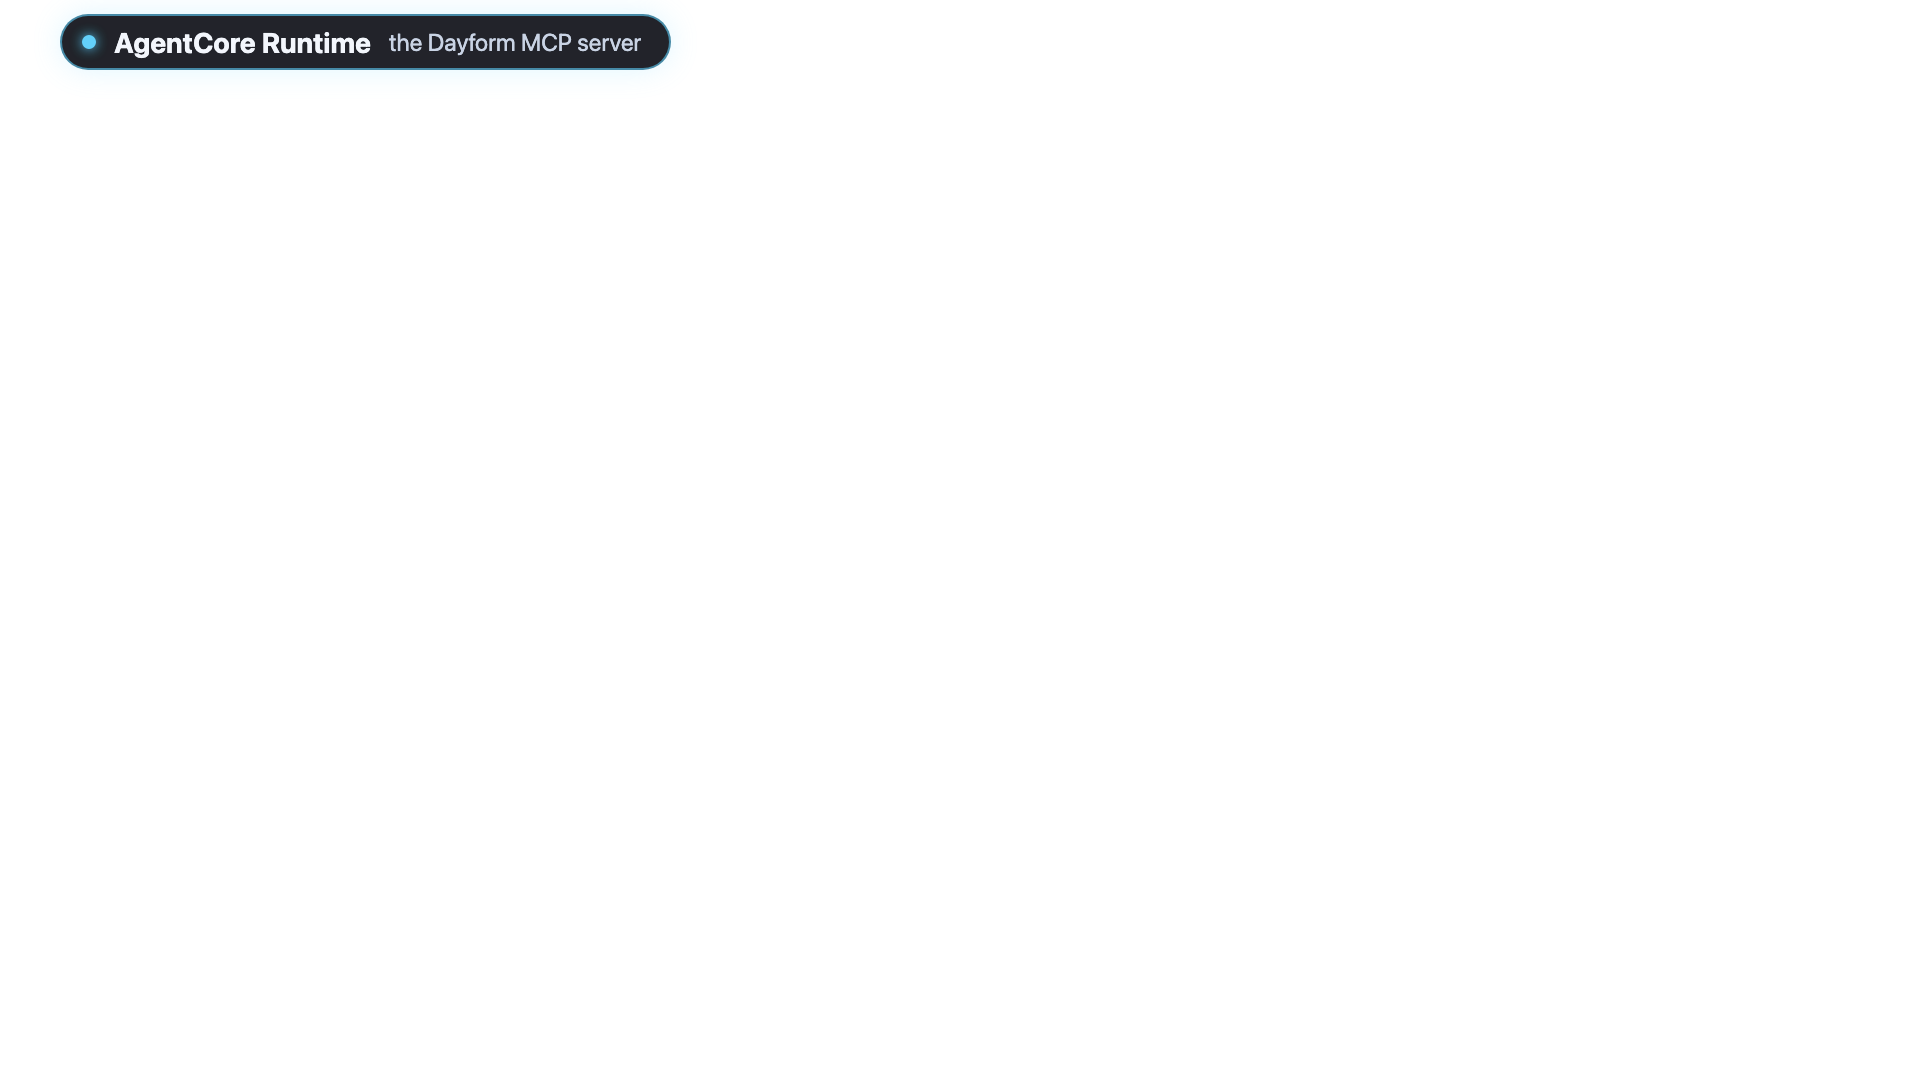
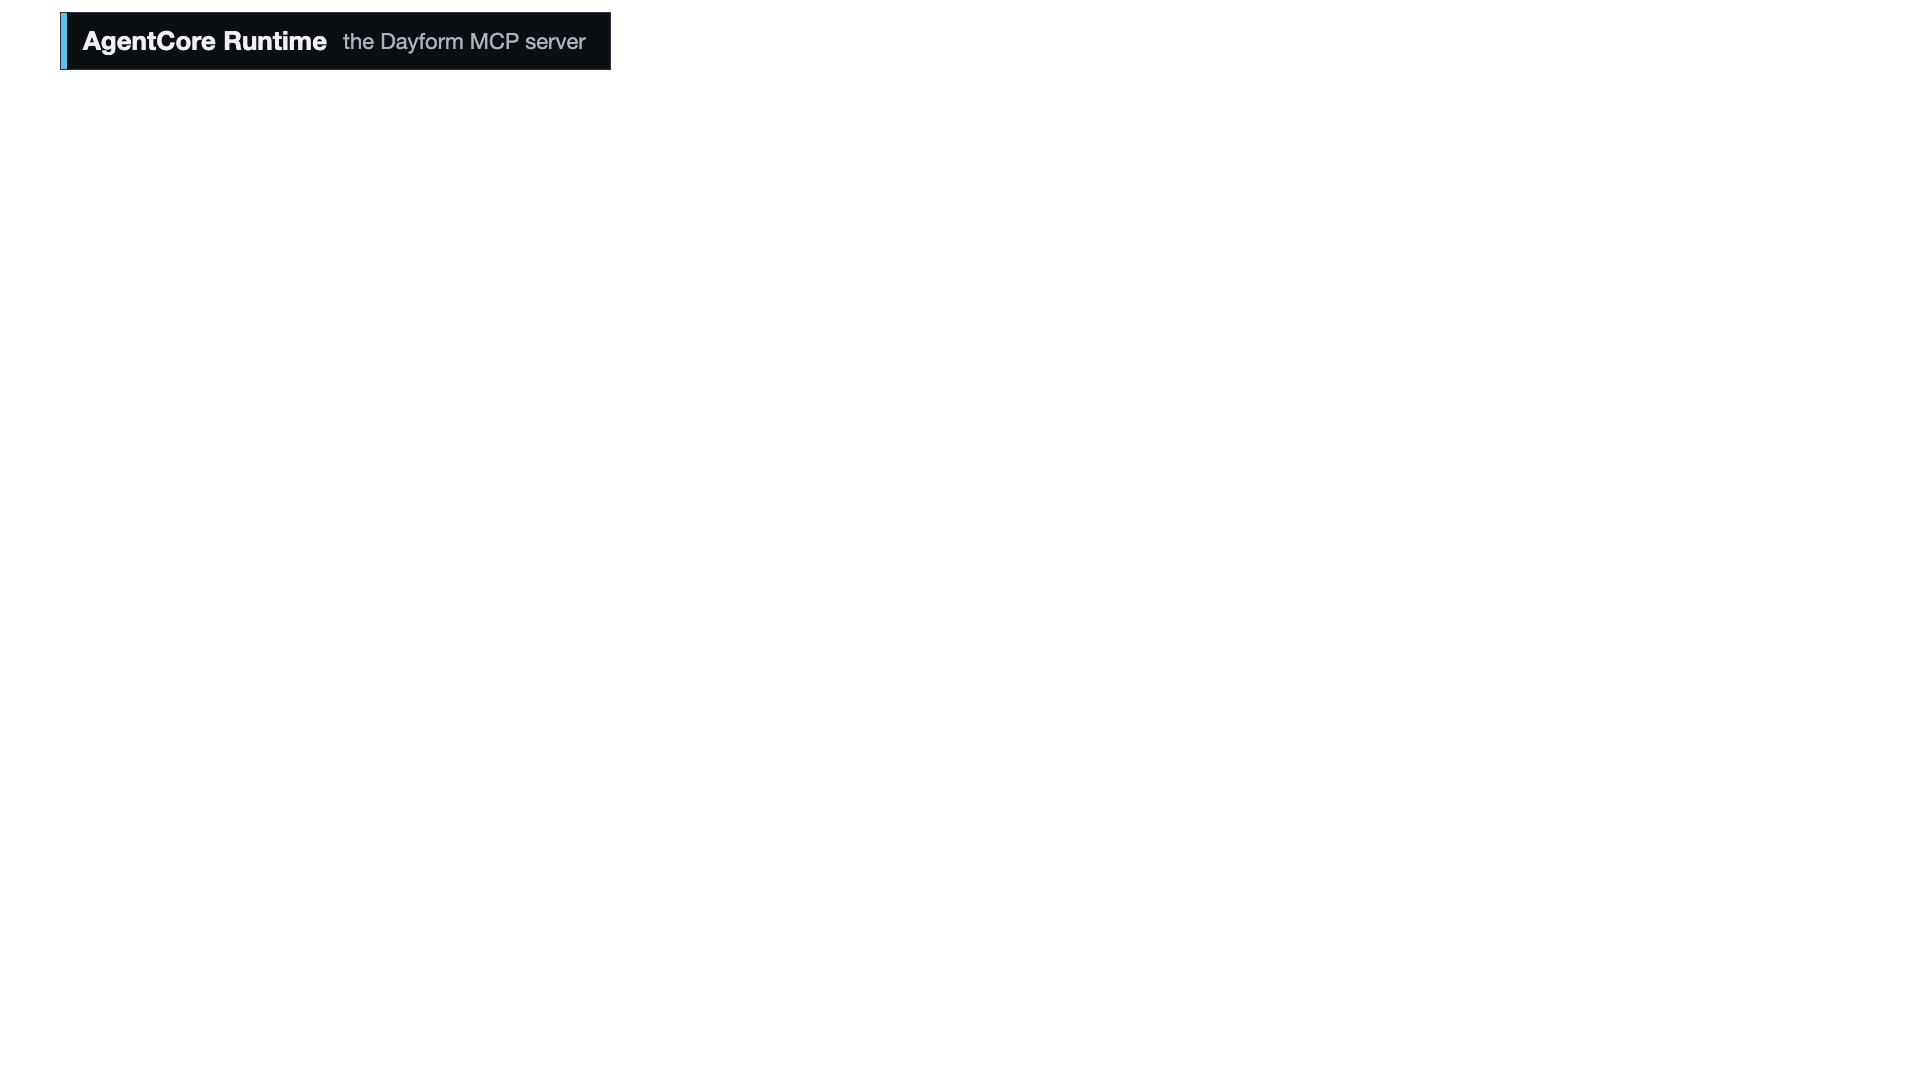
T-51: flat redesign of title card and architecture slide (A light serif, B dark Helvetica), flat lower thirds

Changed region(s): [[0.0312, 0.0, 0.375, 0.0611]]

diff --git a/video/scripts/render.ts b/video/scripts/render.ts
@@ -1,6 +1,6 @@
-// Renders the video stills (title card, architecture slide, lower thirds) to 1920x1080 PNGs with headless Chrome
-// over CDP, the same approach as cards/scripts/screens.ts. Lower thirds have a transparent background.
-// Usage: npx tsx video/scripts/render.ts
+// Renders the video stills to 1920x1080 PNGs with headless Chrome over CDP (approach from cards/scripts/screens.ts).
+// Title card and architecture slide in two variants (A light, New York + SF Pro Text; B flat dark, Helvetica Neue),
+// plus the lower thirds (transparent). Usage: npx tsx video/scripts/render.ts
 import { spawn } from "node:child_process";
 import { mkdirSync, mkdtempSync, writeFileSync } from "node:fs";
 import { tmpdir } from "node:os";
@@ -8,77 +8,91 @@ import { join } from "node:path";
 
 const CHROME = process.env.CHROME ?? "/Applications/Google Chrome.app/Contents/MacOS/Google Chrome";
 const OUT = new URL("../assets/", import.meta.url).pathname;
+const S1 = new URL("../../simulator/frontend/screens/S1.png", import.meta.url).href;
+const TMP = mkdtempSync(join(tmpdir(), "t51-"));
 const wait = (ms: number) => new Promise((r) => setTimeout(r, ms));
 
-// The look of the simulator and cards: near-black navy, Alexa cyan, violet for protein.
-const BASE = `*{box-sizing:border-box;margin:0}html,body{width:1920px;height:1080px;overflow:hidden}
-body{font-family:"Amazon Ember",Inter,-apple-system,BlinkMacSystemFont,"Segoe UI",Roboto,"Helvetica Neue",Arial,sans-serif;color:#f2f6fc}
-.mono{font-family:ui-monospace,"SF Mono",Menlo,monospace}`;
-const BG = `body{background:radial-gradient(1200px 700px at 30% 20%,#0f1d33 0%,#090d15 60%,#06090f 100%)}`;
+// System font files (not exposed to Chrome by family name), loaded with --allow-file-access-from-files.
+const FACES = `@font-face{font-family:"NY";src:url(file:///System/Library/Fonts/NewYork.ttf)}
+@font-face{font-family:"SFText";src:url(file:///System/Library/Fonts/SFNS.ttf)}
+@font-face{font-family:"SFMono";src:url(file:///System/Library/Fonts/SFNSMono.ttf)}`;
+const ACCENT = "#31C3F0";
 
-const title = `<style>${BASE}${BG}
-.wrap{position:absolute;left:160px;top:0;bottom:0;display:flex;flex-direction:column;justify-content:center}
-.bar{width:420px;height:10px;border-radius:5px;background:linear-gradient(90deg,#1f7cff,#19d3ff);box-shadow:0 0 40px #19d3ff88;margin-bottom:56px}
-h1{font-size:180px;font-weight:700;letter-spacing:-4px;line-height:1}
-.tag{font-size:58px;line-height:1.3;margin-top:48px;color:#c7d3e6;max-width:1500px}
-.tag b{color:#19d3ff;font-weight:600}
-.sub{margin-top:64px;font-size:34px;letter-spacing:6px;text-transform:uppercase;color:#8fdcff}</style>
-<div class="wrap"><div class="bar"></div><h1>Dayform</h1>
-<div class="tag">Every fitness app makes you type.<br><b>This one, you just talk to.</b></div>
-<div class="sub">An Alexa+ add-on</div></div>`;
+type Theme = { bg: string; fg: string; muted: string; line: string; box: string; grid: string; head: string; body: string };
+const A: Theme = { bg: "#F4F5F7", fg: "#111111", muted: "#5B616B", line: "#2B2F36", box: "#FFFFFF", grid: "#EDEFF2", head: `'NY',Georgia,serif`, body: `'SFText',Helvetica,sans-serif` };
+const B: Theme = { bg: "#0B0F14", fg: "#EEF1F5", muted: "#8B95A3", line: "#AAB3BF", box: "#0B0F14", grid: "#0E141B", head: `'Helvetica Neue',Helvetica,sans-serif`, body: `'Helvetica Neue',Helvetica,sans-serif` };
+const MONO = `"SFMono",Menlo,monospace`;
 
-// Architecture: three columns (device, server, AWS data/AI), from docs/architecture.mmd.
-type Box = { x: number; y: number; t: string; s: string; hi?: boolean };
-const W = 420, H = 150;
-const boxes: Box[] = [
-  { x: 80, y: 220, t: "Nova 2.5 Sonic", s: "Alexa's voice · Bedrock", hi: true },
-  { x: 80, y: 480, t: "Echo Show simulator", s: "React frontend + backend" },
-  { x: 750, y: 220, t: "MCP Apps cards", s: "8 cards · 768×480", hi: true },
-  { x: 750, y: 480, t: "AgentCore Runtime", s: "Dayform MCP server · 18 tools", hi: true },
-  { x: 750, y: 760, t: "amazon.com cart", s: "you check out; Alexa never orders" },
-  { x: 1420, y: 220, t: "Nova 2 Lite on Bedrock", s: "judgment calls, checked by code", hi: true },
-  { x: 1420, y: 480, t: "Aurora Serverless v2", s: "PostgreSQL + Data API", hi: true },
-  { x: 1420, y: 760, t: "EventBridge Scheduler + Lambda", s: "overnight job: check-in, brief", hi: true },
-];
-const box = (b: Box) => `<div class="box${b.hi ? " hi" : ""}" style="left:${b.x}px;top:${b.y}px"><div class="t">${b.t}</div><div class="s">${b.s}</div></div>`;
-const label = (x: number, y: number, html: string, cls = "") => `<div class="lbl ${cls}" style="left:${x}px;top:${y}px">${html}</div>`;
-const arch = `<style>${BASE}${BG}
-h2{position:absolute;left:80px;top:70px;font-size:56px;font-weight:700;letter-spacing:-1px}
-h2 span{color:#19d3ff}
-.box{position:absolute;width:${W}px;height:${H}px;border-radius:22px;background:#121a28;border:2px solid #2a3953;padding:30px 32px;display:flex;flex-direction:column;justify-content:center}
-.box.hi{border-color:#19d3ff99;box-shadow:0 0 36px #19d3ff22}
-.t{font-size:34px;font-weight:700}.s{font-size:24px;color:#c7d3e6;margin-top:8px}
-.lbl{position:absolute;font-size:24px;color:#8fdcff;background:#090d15;padding:4px 10px;border-radius:8px;transform:translate(-50%,-50%);white-space:nowrap;text-align:center;line-height:1.3}
-.lbl.big{font-size:27px;color:#19d3ff;font-weight:600}
-.foot{position:absolute;left:80px;bottom:56px;font-size:26px;color:#c7d3e6}.foot b{color:#19d3ff;font-weight:600}
-svg{position:absolute;left:0;top:0}</style>
-<h2>How it works <span>·</span> Dayform</h2>
-<svg width="1920" height="1080"><defs>
-<marker id="a" viewBox="0 0 10 10" refX="9" refY="5" markerWidth="9" markerHeight="9" orient="auto-start-reverse"><path d="M0 0L10 5L0 10z" fill="#19d3ff"/></marker>
-</defs><g stroke="#19d3ff" stroke-width="3" fill="none">
-<path d="M290 372V478" marker-start="url(#a)" marker-end="url(#a)"/>
-<path d="M502 555H748" marker-end="url(#a)" stroke-width="5"/>
-<path d="M960 478V372" marker-end="url(#a)"/>
-<path d="M750 295C600 295 600 450 502 520" stroke-dasharray="10 8" marker-end="url(#a)"/>
-<path d="M1172 520L1418 330" marker-end="url(#a)"/>
-<path d="M1172 575H1418" marker-end="url(#a)"/>
-<path d="M960 632V758" stroke-dasharray="4 8" marker-end="url(#a)"/>
-<path d="M1630 758V632" marker-end="url(#a)"/>
-<path d="M1842 835C1905 835 1905 295 1842 295" marker-end="url(#a)"/>
-</g></svg>
-${boxes.map(box).join("")}
-${label(290, 425, "bidirectional<br>audio stream")}
-${label(625, 610, "MCP 2025-11-25<br>Streamable HTTP", "big")}
-${label(960, 425, "ui:// resources")}
-${label(590, 380, "_meta.ui<br>resourceUri")}
-${label(1295, 425, "unknown foods, meal plans")}
-${label(1295, 612, "Data API")}
-${label(960, 695, "Add-to-Cart link")}
-${label(1630, 695, "nightly")}
-<div class="foot">Code does the arithmetic, storage and checks. <b>Every number is checked against the database.</b></div>`;
+// 12-column grid: 144 px side margins, 24 px gutters -> 114 px columns, 138 px step.
+const M = 144, STEP = 138;
+const colX = (c: number) => M + (c - 1) * STEP;
+const span = (n: number) => n * STEP - 24;
+const grid = (t: Theme) => Array.from({ length: 12 }, (_, i) =>
+  `<div style="position:absolute;left:${colX(i + 1)}px;top:0;width:${span(1)}px;height:1080px;background:${t.grid}"></div>`).join("");
+const page = (t: Theme, body: string) => `<!doctype html><meta charset="utf-8"><style>${FACES}
+*{box-sizing:border-box;margin:0}html,body{width:1920px;height:1080px;overflow:hidden;background:${t.bg};color:${t.fg};font-family:${t.body}}
+.abs{position:absolute}.mono{font-family:${MONO}}</style>${grid(t)}${body}`;
 
-// Lower thirds: a pill in the empty band above the Echo Show frame (top left), so it never covers the
-// burned-in captions at the bottom. Transparent background, full frame, so it drops in at 0,0.
+// The Echo Show frame from S1.png (bezel at 58..1262 x 77..849), scaled to width w; the clip follows the bezel.
+const device = (x: number, y: number, w: number) => {
+  const s = w / 1204;
+  return `<div class="abs" style="left:${x}px;top:${y}px;width:${w}px;height:${Math.round(772 * s)}px;overflow:hidden;clip-path:inset(0 round ${Math.round(46 * s)}px)">
+<img src="${S1}" style="position:absolute;left:${-58 * s}px;top:${-77 * s}px;width:${1920 * s}px"></div>`;
+};
+
+const title = (t: Theme) => page(t, `
+<div class="abs" style="left:${colX(1)}px;top:336px;width:96px;height:6px;background:${ACCENT}"></div>
+<div class="abs" style="left:${colX(1)}px;top:372px;font-family:${t.head};font-size:${t === A ? 168 : 148}px;font-weight:${t === A ? 500 : 700};letter-spacing:-3px;line-height:1">Dayform</div>
+<div class="abs" style="left:${colX(1)}px;top:590px;width:${span(5)}px;font-size:${t === A ? 46 : 40}px;line-height:1.25;font-weight:400;white-space:nowrap">Every fitness app makes you type.<br>This one, you just talk to.</div>
+<div class="abs" style="left:${colX(1)}px;top:740px;font-size:26px;color:${t.muted}">An Alexa+ add-on</div>
+<div class="abs mono" style="left:${colX(1)}px;top:984px;font-size:20px;color:${t.muted};letter-spacing:.5px">MCP 2025-11-25 · AgentCore Runtime · Nova 2.5 Sonic</div>
+${device(colX(6), 230, span(7))}`);
+
+// Architecture: tier 1 laptop row, tier 2 AWS region; orthogonal 2 px connectors.
+type Box = { c: number; n: number; y: number; h: number; t: string; s: string; thumb?: boolean };
+const arch = (t: Theme) => {
+  const box = (b: Box) => `<div class="abs" style="left:${colX(b.c)}px;top:${b.y}px;width:${span(b.n)}px;height:${b.h}px;background:${t.box};border:1px solid ${t.fg};padding:22px 24px">
+<div style="font-size:28px;font-weight:600;line-height:1.15">${b.t}</div><div style="font-size:20px;color:${t.muted};margin-top:10px;line-height:1.4">${b.s}</div>
+${b.thumb ? device(span(b.n) - 250, 17, 224).replace('class="abs"', 'class="abs" data-thumb') : ""}</div>`;
+  const lbl = (x: number, y: number, s: string, color = t.fg) => `<div class="abs mono" style="left:${x}px;top:${y}px;font-size:17px;line-height:1.35;color:${color}">${s}</div>`;
+  const p = (d: string, color = t.line, both = false) =>
+    `<path d="${d}" stroke="${color}" stroke-width="2" fill="none" marker-end="url(#a${color === ACCENT ? "x" : ""})"${both ? ` marker-start="url(#a)"` : ""}/>`;
+  const mk = (id: string, c: string) => `<marker id="${id}" viewBox="0 0 10 10" refX="10" refY="5" markerWidth="10" markerHeight="10" markerUnits="userSpaceOnUse" orient="auto-start-reverse"><path d="M0 0L10 5L0 10z" fill="${c}"/></marker>`;
+  // Columns: 1 x144, 4 x558, 5 x696, 7 ends 1086, 10 x1386, 12 ends 1776.
+  return page(t, `
+<div class="abs" style="left:${colX(1)}px;top:64px;font-family:${t.head};font-size:56px;font-weight:${t === A ? 500 : 700};letter-spacing:-.5px">How Dayform works</div>
+<div class="abs" style="left:120px;top:470px;width:1680px;height:484px;border:1px solid ${t.muted}"></div>
+${lbl(140, 484, "AWS us-east-1", t.muted)}
+${lbl(colX(1), 170, "LAPTOP", t.muted)}
+${box({ c: 1, n: 2, y: 225, h: 130, t: "Your voice", s: "or typed text" })}
+${box({ c: 4, n: 5, y: 200, h: 180, t: "Echo Show simulator", s: "web app on the laptop<br>React frontend + backend", thumb: true })}
+${box({ c: 10, n: 3, y: 225, h: 130, t: "amazon.com cart", s: "you check out; Alexa never orders" })}
+${box({ c: 1, n: 3, y: 560, h: 170, t: "Amazon Bedrock", s: "Nova 2.5 Sonic: voice<br>Nova 2 Lite: judgment" })}
+${box({ c: 5, n: 3, y: 560, h: 170, t: "AgentCore Runtime", s: "Dayform MCP server<br>18 tools" })}
+${box({ c: 10, n: 3, y: 560, h: 170, t: "Aurora Serverless v2", s: "PostgreSQL, Data API" })}
+${box({ c: 10, n: 3, y: 780, h: 150, t: "EventBridge Scheduler + Lambda", s: "overnight job" })}
+<svg class="abs" style="left:0;top:0" width="1920" height="1080"><defs>${mk("a", t.line)}${mk("ax", ACCENT)}</defs>
+${p("M396 290H557")}
+${p("M557 340H470V559", t.line, true)}
+${p("M740 381V559", ACCENT)}
+${p("M1060 559V381")}
+${p("M695 645H535")}
+${p("M1087 645H1385")}
+${p("M1087 600H1250V290H1385")}
+${p("M1581 779V731")}
+${p("M1385 850H339V731")}
+</svg>
+${lbl(484, 400, "bidirectional<br>audio")}
+${lbl(756, 420, "MCP 2025-11-25<br>Streamable HTTP", t.fg)}
+${lbl(1074, 420, "ui:// cards")}
+${lbl(560, 612, "judgment")}
+${lbl(1102, 652, "Data API")}
+${lbl(1264, 380, "Add-to-Cart<br>link")}
+${lbl(820, 862, "nightly: check-in and brief (Nova 2 Lite)")}
+<div class="abs" style="left:${colX(1)}px;top:990px;font-size:24px;color:${t.muted}">Code does the arithmetic, storage and checks; every number in the brief is checked against the database.</div>`);
+};
+
+// Lower thirds: a flat rectangle in the empty band above the Echo Show frame (top left), clear of the captions.
 const LT = [
   ["mcp", "MCP 2025-11-25", "Streamable HTTP · 18 tools"],
   ["nova-sonic", "Nova 2.5 Sonic", "Alexa's voice · Amazon Bedrock"],
@@ -89,20 +103,22 @@ const LT = [
   ["mcp-apps-card", "MCP Apps card 768×480", "rendered on the Echo Show"],
   ["add-to-cart", "Add-to-Cart link", "you check out on Amazon; Alexa never orders"],
 ];
-const lower = (t: string, s: string) => `<style>${BASE}body{background:transparent}
-.pill{position:absolute;left:60px;top:14px;height:56px;display:flex;align-items:center;gap:18px;padding:0 28px 0 20px;border-radius:28px;background:#090d15e6;border:2px solid #19d3ff99;box-shadow:0 0 30px #19d3ff33}
-.dot{width:14px;height:14px;border-radius:7px;background:#19d3ff;box-shadow:0 0 12px #19d3ff}
-.t{font-size:28px;font-weight:700}.s{font-size:24px;color:#c7d3e6}</style>
-<div class="pill"><div class="dot"></div><div class="t">${t}</div><div class="s">${s}</div></div>`;
+const lower = (t: string, s: string) => `<!doctype html><meta charset="utf-8"><style>*{box-sizing:border-box;margin:0}
+html,body{width:1920px;height:1080px;overflow:hidden;background:transparent;font-family:"Helvetica Neue",Helvetica,sans-serif}</style>
+<div style="position:absolute;left:60px;top:12px;height:58px;display:flex;align-items:center;gap:16px;padding:0 24px 0 0;background:#0B0F14;border:1px solid #2A323D">
+<div style="width:6px;align-self:stretch;background:${ACCENT}"></div>
+<div style="font-size:26px;font-weight:700;color:#EEF1F5">${t}</div><div style="font-size:22px;color:#AAB3BF">${s}</div></div>`;
 
 const jobs: [string, string, boolean][] = [
-  ["title-card.png", title, false],
-  ["architecture-slide.png", arch, false],
+  ["title-card-A.png", title(A), false],
+  ["title-card-B.png", title(B), false],
+  ["architecture-slide-A.png", arch(A), false],
+  ["architecture-slide-B.png", arch(B), false],
   ...LT.map(([f, t, s]) => [`lower-thirds/${f}.png`, lower(t, s), true] as [string, string, boolean]),
 ];
 
-const proc = spawn(CHROME, ["--headless=new", "--remote-debugging-port=9335", `--user-data-dir=${mkdtempSync(join(tmpdir(), "t51-"))}`,
-  "--hide-scrollbars", "about:blank"], { stdio: "ignore" });
+const proc = spawn(CHROME, ["--headless=new", "--remote-debugging-port=9335", `--user-data-dir=${join(TMP, "chrome")}`,
+  "--allow-file-access-from-files", "--hide-scrollbars", "about:blank"], { stdio: "ignore" });
 try {
   let targets: any[] = [];
   for (let i = 0; i < 40 && !targets.length; i++) {
@@ -116,17 +132,31 @@ try {
   ws.addEventListener("message", (e) => { const m = JSON.parse(String(e.data)); if (m.id) pending.get(m.id)?.(m); });
   const send = (method: string, params: object = {}) =>
     new Promise<any>((r) => { pending.set(++id, r); ws.send(JSON.stringify({ id, method, params })); });
+  const evaluate = async (expression: string) =>
+    (await send("Runtime.evaluate", { expression, returnByValue: true, awaitPromise: true })).result?.result?.value;
   await send("Page.enable");
+  await send("DOM.enable");
+  await send("CSS.enable");
   await send("Emulation.setDeviceMetricsOverride", { width: 1920, height: 1080, deviceScaleFactor: 1, mobile: false });
   mkdirSync(`${OUT}lower-thirds`, { recursive: true });
   for (const [file, html, transparent] of jobs) {
     await send("Emulation.setDefaultBackgroundColorOverride", transparent ? { color: { r: 0, g: 0, b: 0, a: 0 } } : {});
-    const frame = (await send("Page.getFrameTree")).result.frameTree.frame.id;
-    await send("Page.setDocumentContent", { frameId: frame, html: `<!doctype html><meta charset="utf-8">${html}` });
-    await wait(300);
+    const src = join(TMP, file.replace("/", "-").replace(".png", ".html"));
+    writeFileSync(src, html);
+    await send("Page.navigate", { url: `file://${src}` });
+    await evaluate("document.fonts.ready.then(() => Promise.all([...document.images].map((i) => i.decode()))).then(() => true)");
+    await wait(200);
+    // Report the fonts Chrome actually drew with, to check the typography rules.
+    const doc = (await send("DOM.getDocument", { depth: -1 })).result.root;
+    const used = new Set<string>();
+    const walk = async (n: any) => {
+      if (n.nodeName === "DIV") for (const f of (await send("CSS.getPlatformFontsForNode", { nodeId: n.nodeId })).result?.fonts ?? []) used.add(f.familyName);
+      for (const c of n.children ?? []) await walk(c);
+    };
+    await walk(doc);
     const shot = await send("Page.captureScreenshot", { format: "png", clip: { x: 0, y: 0, width: 1920, height: 1080, scale: 1 } });
     writeFileSync(OUT + file, Buffer.from(shot.result.data, "base64"));
-    console.log("wrote", file);
+    console.log("wrote", file, "| fonts:", [...used].join(", "));
   }
   ws.close();
 } finally {

diff --git a/video/edit-notes.md b/video/edit-notes.md
@@ -7,7 +7,7 @@ Order and times: [shot-list.md](shot-list.md). Stills are re-rendered with `npx 
 
 | Asset | Where | Length |
 |---|---|---|
-| `assets/title-card.png` | 0:00, before or under the start of S1; again as the close at about 2:54 | ≤ 3 s at the open (the first 20 s must show the product working) |
+| `assets/title-card-A.png` or `-B.png` (user picks) | 0:00, before or under the start of S1; again as the close at about 2:54 | ≤ 3 s at the open (the first 20 s must show the product working) |
 | `assets/lower-thirds/nova-sonic.png` | S1, when the light bar first listens | 3–4 s |
 | `assets/lower-thirds/mcp-apps-card.png` | S1, when the `meal-logged` card lands | 3–4 s |
 | `assets/lower-thirds/mcp.png` | S3 first tool call in "Under the hood"; S7 Inspector clip | 3–4 s |
@@ -16,10 +16,10 @@ Order and times: [shot-list.md](shot-list.md). Stills are re-rendered with `npx 
 | `assets/lower-thirds/eventbridge-lambda.png` | S5, on the night animation | 1–3 s |
 | `assets/lower-thirds/aurora.png` | S5, when the brief card lands | 3–4 s |
 | `assets/lower-thirds/agentcore.png` | S7, on the AgentCore console clip | 3–4 s |
-| `assets/architecture-slide.png` | S7, after the proof clips | about 5 s |
+| `assets/architecture-slide-A.png` or `-B.png` (user picks) | S7, after the proof clips | about 5 s |
 | `assets/s7-*.txt` | S7 backups only, if a console clip can't be recorded | |
 
-Lower thirds are transparent 1920×1080 PNGs: place each at 0,0 on a track above the footage. The pill sits top left, in the empty band above the Echo Show frame, so it never covers the burned-in captions or the simulator's reply text at the bottom. Fade in/out about 0.2 s.
+Lower thirds are transparent 1920×1080 PNGs: place each at 0,0 on a track above the footage. The flat label sits top left, in the empty band above the Echo Show frame, so it never covers the burned-in captions or the simulator's reply text at the bottom. Fade in/out about 0.2 s.
 
 ## Rules
 

diff --git a/video/shot-list.md b/video/shot-list.md
@@ -26,8 +26,8 @@ The first 20 seconds must show the product working: keep the title card to 3 s a
 | 2 | AgentCore runtime console, runtime `dayform_server`, Status Ready | 5 s | **[USER]** AWS console, us-east-1, Bedrock AgentCore → Runtime → `dayform_server` | `assets/s7-agentcore-runtime.txt` (do not use `smoke/agentcore-mcp/screens/agentcore-runtime-console.png`: it shows the smoke runtime `dayform_smoke_mcp`, the account ID and unrelated tabs) |
 | 3 | MCP Inspector: connect over Streamable HTTP, protocol 2025-11-25, Tools list = 18 | 5 s | **[USER]** `npx @modelcontextprotocol/inspector`, URL `http://localhost:8000/mcp` (or 8001), List Tools | `npm run demo:scene -- S7` output (tools/list) |
 | 4 | CloudWatch log lines: `tool=... ms=... status=ok` | 3 s | **[USER]** CloudWatch → `/aws/bedrock-agentcore/runtimes/dayform_server-itlffCFT4p-DEFAULT` | `assets/s7-cloudwatch-tool-call.txt` |
-| 5 | Architecture slide | 5 s | `assets/architecture-slide.png` | n/a |
-| 6 | Tagline close | 3 s | `assets/title-card.png` | n/a |
+| 5 | Architecture slide | 5 s | `assets/architecture-slide-A.png` or `-B.png` | n/a |
+| 6 | Tagline close | 3 s | `assets/title-card-A.png` or `-B.png` | n/a |
 
 Optional if time allows: `assets/s7-aurora-cluster.txt` and `assets/s7-overnight-lambda.txt` as evidence for Aurora and the overnight Lambda. Hide the account ID in any console clip (crop or blur).
 
